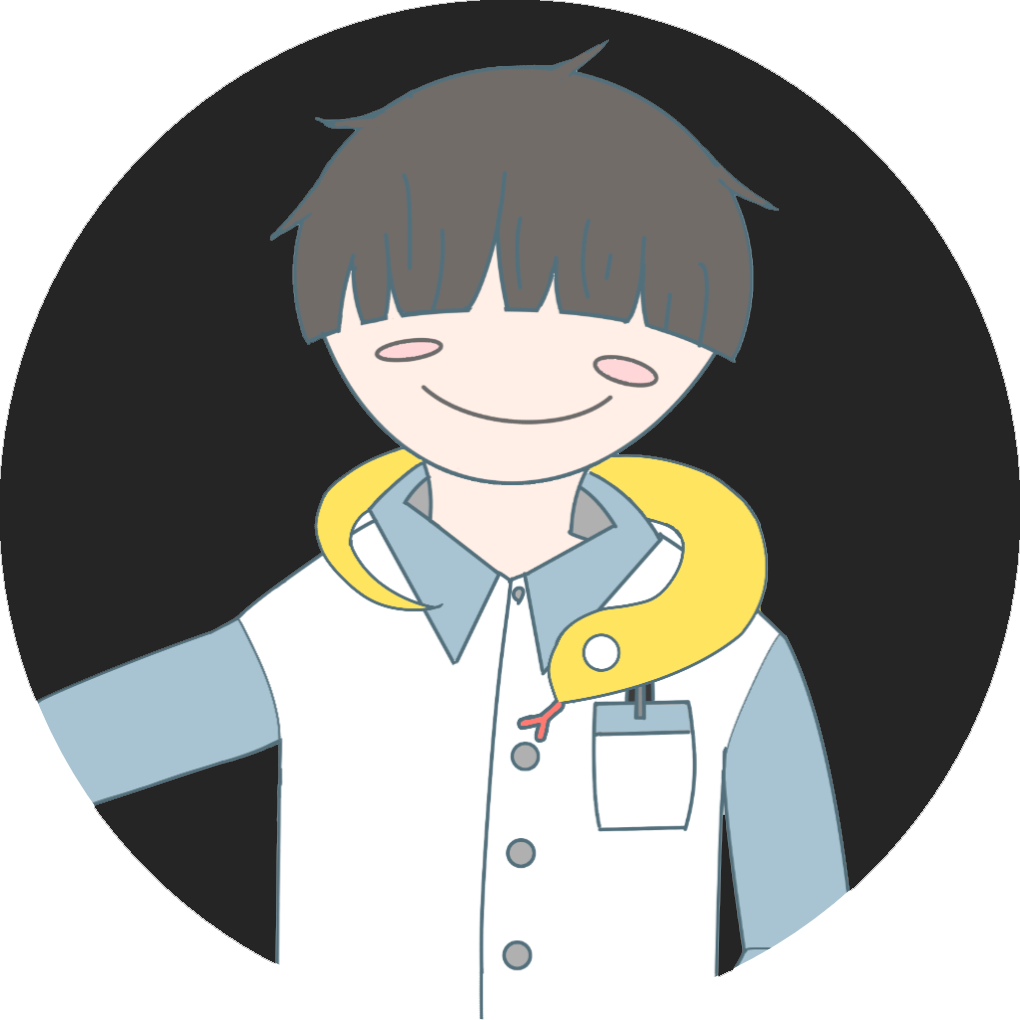
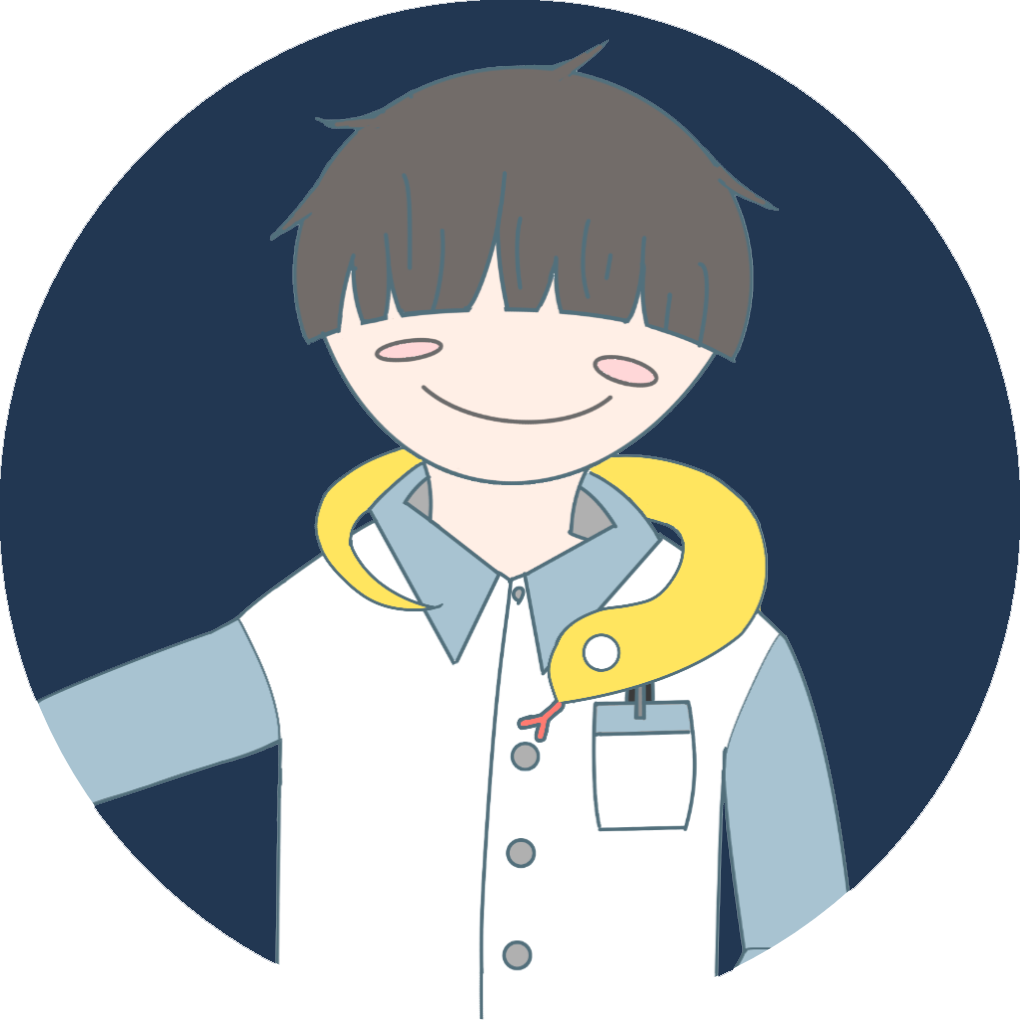
fix: color-theme

diff --git a/src/app/globals.css b/src/app/globals.css
@@ -39,12 +39,10 @@ body {
 		--app-background: 0 0% 100%;
 		--app-background-dark: 0 0% 14.5%;
 		--background: var(--app-background);
-		--foreground: 240 10% 3.9%;
+		--foreground: 210 41% 15%;
 		--card: var(--app-background);
 		--card-foreground: 240 10% 3.9%;
-		--popover: var(--app-background);
-		--popover-foreground: 240 10% 3.9%;
-		--primary: 240 5.9% 10%;
+		--primary: 210 41% 15%;
 		--primary-foreground: 0 0% 98%;
 		--secondary: 240 4.8% 95.9%;
 		--secondary-foreground: 240 5.9% 10%;
@@ -56,12 +54,6 @@ body {
 		--destructive-foreground: 0 0% 98%;
 		--border: 240 5.9% 90%;
 		--input: 240 5.9% 90%;
-		--ring: 240 10% 3.9%;
-		--chart-1: 12 76% 61%;
-		--chart-2: 173 58% 39%;
-		--chart-3: 197 37% 24%;
-		--chart-4: 43 74% 66%;
-		--chart-5: 27 87% 67%;
 		--radius: 0.5rem;
 	}
 	.dark {
@@ -69,8 +61,6 @@ body {
 		--foreground: 0 0% 98%;
 		--card: var(--app-background-dark);
 		--card-foreground: 0 0% 98%;
-		--popover: var(--app-background-dark);
-		--popover-foreground: 0 0% 98%;
 		--primary: 0 0% 98%;
 		--primary-foreground: 240 5.9% 10%;
 		--secondary: 240 3.7% 15.9%;
@@ -83,12 +73,7 @@ body {
 		--destructive-foreground: 0 0% 98%;
 		--border: 240 3.7% 15.9%;
 		--input: 240 3.7% 15.9%;
-		--ring: 240 4.9% 83.9%;
-		--chart-1: 220 70% 50%;
-		--chart-2: 160 60% 45%;
-		--chart-3: 30 80% 55%;
-		--chart-4: 280 65% 60%;
-		--chart-5: 340 75% 55%;
+		--radius: 0.5rem;
 	}
 }
 
@@ -127,8 +112,6 @@ body {
 	/* .prose code {
 		@apply font-mono bg-gray-100 px-2 py-1 rounded;
 	} */
-
-
 
 	.prose blockquote {
 		@apply pl-4 border-l-4 border-gray-300;
